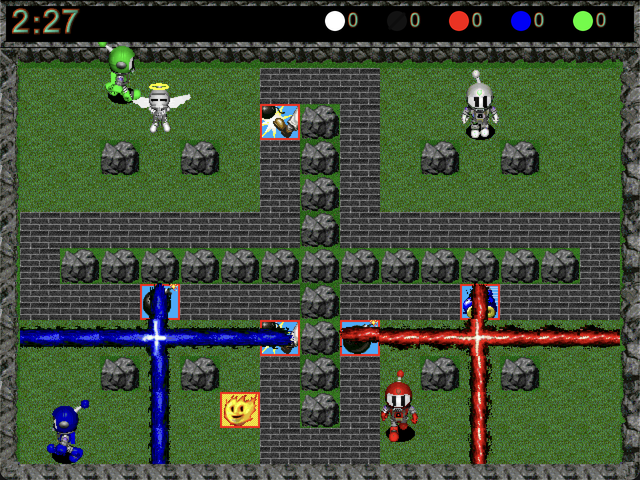
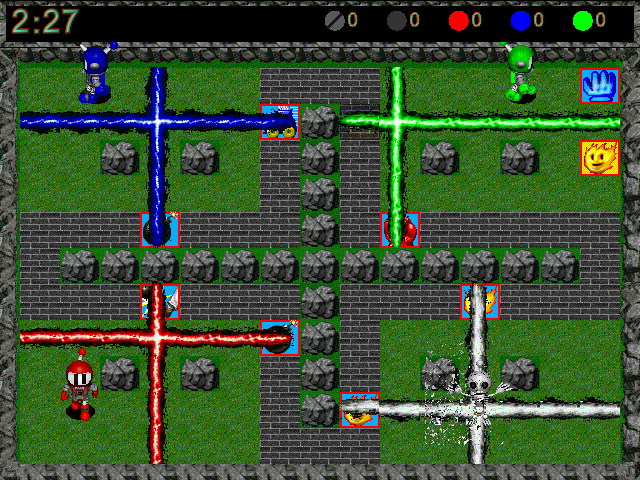
Update READMEs, CHANGELOG and screenshots for menu network play
Regenerated the three port screenshots from the current build, and added
two of the network screens: the host's lobby and the join field. The
lobby shot shows an example LAN address rather than this machine's.
Suite and check counts corrected; stale not-done items removed.

diff --git a/README.md b/README.md
@@ -23,16 +23,30 @@ rendering the same screen, live.
 | ![original field background](docs/screenshots/original-field0-greenacres.png) | ![port gameplay](docs/screenshots/port-gameplay-greenacres.png) |
 
 The gameplay shot on the right is real, not staged for the screenshot: five
-players, two simultaneous bomb explosions, and the brick/powerup/wall art
+players, four simultaneous bomb explosions, and the brick/powerup/wall art
 all drawn from the original's own sprite sheets.
+
+### Network play, from the menu
+
+| Hosting: the lobby tells you what to read out | Joining: pick a listed game, or type the address |
+|---|---|
+| ![host lobby](docs/screenshots/port-network-lobby.png) | ![join by address](docs/screenshots/port-network-join.png) |
+
+No command line needed. **Start Network Game** opens a lobby that shows the
+address others need; **Join Network Game** lists games heard on the LAN and
+takes a typed address for anything else. When a match is won everyone
+returns to the lobby, and the host starts the next one. Step-by-step, and
+what every on-screen message means: [docs/MULTIPLAYER.md](docs/MULTIPLAYER.md).
 
 ## What actually works
 
 - The game **starts, plays, and finishes** entirely on the original's own
   screens, art, sounds, and level data.
-- **Full network play** — WebSocket server/client, tested with real
-  multi-client sessions, deterministic simulation kept in sync by an FNV-1a
-  state hash every tick.
+- **Full network play, started from the menu** — host and join without a
+  terminal, play match after match from the lobby, rejoin a dropped game
+  into your own seat. WebSocket server/client, server-authoritative,
+  checked by an FNV-1a state hash every tick, and a test that fails if the
+  view ever reads a field the network does not carry.
 - **Every one of the 67 shipped multiplayer schemes** loads and plays, with
   team splits, player-start stacking, and per-scheme powerup overrides all
   read from the scheme file itself.
@@ -70,8 +84,8 @@ Nothing here is invented where the disc has an answer. The pipeline:
    integer-only — centipixels, no floats anywhere in game logic — so a
    client and server computing the same inputs get bit-identical results,
    checked every tick by the state hash.
-5. **`tools/verify.sh`** is the single gate: 37 headless test suites, ~6,100
-   assertions, a parse pass over all 74 `.gd` files whether referenced or
+5. **`tools/verify.sh`** is the single gate: 39 test suites, ~6,500
+   assertions, a parse pass over every `.gd` file whether referenced or
    not, a real WebSocket match between a server and two clients, and a
    mutation-testing pass (`tools/mutate.py`) that deliberately breaks the
    simulation 213 ways to confirm the test suite would actually catch each
@@ -91,70 +105,39 @@ Nothing here is invented where the disc has an answer. The pipeline:
   inflated a 30 KB file to 82 MB) and how each was caught, so a mistake
   doesn't get quietly re-made.
 
-## This session's work
+## This session's work (2026-10-02)
 
-Starting from a build that already played start-to-finish with ~6,100
-green checks, a live playtesting pass — followed by a deliberate
-port-vs-original ground-truth hunt — turned up defects the test suite
-could not see (the recurring lesson of this whole project — see
-`docs/BUGS.md`'s D21/D24/D27/D28, and now D29). All fixed and re-verified
-against the full suite:
+Network play went from "works, if you are a developer with a terminal" to
+something a player can use from the menu, and a run of defects that only
+showed up between two windows was fixed — each with a test that fails
+without the fix.
 
-**Found by playing it (D29):**
+- **The match never ended over the network.** The server logged "match
+  over" and then nothing — both windows sat on the final frame. A won match
+  now returns everyone to the lobby with the result shown, and the host
+  starts the next one.
+- **Losing the server quit everybody's game.** Now: back to the menu, with
+  the reason on screen. A join to an address where nothing answers no
+  longer hangs forever.
+- **A menu-only join could never work** — every menu-started game is named
+  "player", and the server refused the duplicate. Duplicates are numbered.
+- **Networked deaths still had no animation, and punched bombs flew
+  flat**, because two fields the renderer reads never crossed the wire.
+  Found by a new test that changes every player and bomb field on a server
+  and checks what arrives.
+- **The test editor crashed on every key in a network game.** It now edits
+  the host's real game; a guest is told why it cannot.
+- **A dropped player who rejoins gets their own seat, colour and score
+  back**, even from the AI that kept it warm.
+- **The flame's top arm sat ~3 px right of the centre** — the arm was
+  right; the centre piece's art carries its stem off-centre in its frame.
+  The vertical arms now line up on it: 2.75 px apart at the joint before,
+  0.15 px after, measured on screen.
+- **Flags typed before `--` are honoured with a warning** instead of being
+  silently ignored, and `verify.sh` refuses to run beside an open game
+  window instead of failing in a way that looks like a regression.
 
-- **Bombs sometimes not destroying bricks.** The flame-arm walk tested "is
-  there a powerup here" before "is this a brick" — and every powerup sits
-  hidden under a brick by design, so a flame hitting one destroyed the
-  invisible powerup and stopped without ever touching the brick. Swept all
-  67 schemes: **1,540 of 4,268 bomb-adjacent-to-brick cases (36%) failed
-  before the fix, 0 after.**
-- **Flame centre/north-arm misalignment** — a genuine sub-pixel quantization
-  limit (a 41px sprite centred in a 40px cell always leaves an exact 0.5px
-  remainder, provably, for any rounding rule), fixed by letting flame
-  pieces draw at their true fractional pixel position instead of snapping —
-  every other sprite kind stays pixel-locked.
-- **A powerup sitting on a bomb's own tile was never destroyed** — the
-  flame arms checked for one, the epicentre never did.
-- **Bombs could land on top of each other.** A punched or thrown bomb's
-  destination was clamped to field bounds only, with zero occupancy
-  check — fixed to stop at the furthest open cell, the way a kicked bomb
-  already did.
-- **AI movement was genuinely erratic** — the wander fallback re-rolled a
-  random direction every single tick (20/s) instead of persisting one.
-  Measured: 75% of ticks changed direction before the fix, 5% after,
-  matching the original's own 1-in-25 reconsider rule.
-- **A death animation could get cut off by the round ending underneath
-  it** — the round-transition timer (60 ticks) was shorter than the
-  longest death animation needs (up to 93 steps), so a cornered,
-  round-deciding kill could tear the simulation down mid-animation.
-
-**Found by hunting the port against the disassembled original, not by
-playing:**
-
-- **Four of twelve diseases were dead stubs** — `POOPS`, `SWAP_PLAYERS`,
-  `LEPROSY` and `INVISIBLE` were correctly classified into the disease
-  pool (so a player could catch them) but had no effect at all.
-  Implemented, cross-checked against an independent prior port where the
-  disc itself doesn't say (POOPS confirmed via a second port's own
-  `dEbola` — same disease, same mechanism).
-- **Campaign mode never scored a kill on a bot player** — VALUELST
-  resource 1300 ("250 for killing an AI") was declared and never read.
-- **The project's own "two-parser" safety check wasn't running.**
-  `tools/schemes.py --compare` — meant to catch the Python and GDScript
-  scheme parsers disagreeing — depended on a test-support script that
-  didn't exist, so it passed by checking nothing. Rebuilt; run for real:
-  all 67 schemes agree between the two parsers.
-
-Two live reports turned out to be correct behaviour, not bugs: an exposed
-powerup already died to flame (only the epicentre case was broken), and a
-"player instead of bomb" sighting during a punch/throw was the disc's own
-art — every character in this game is bomb-shaped, including a flying bomb.
-
-Every fix above was found and root-caused through actual repro — headless
-simulation sweeps across all 67 schemes, live-session playtesting, and
-pixel-level measurement of the rendered art — not by reasoning about the
-code in the abstract. See `docs/BUGS.md` D29 for the full defect history
-and `CHANGELOG.md` for the itemized diff.
+Itemized in `CHANGELOG.md`; the per-item reasoning in `docs/IMPROVEMENTS.md`.
 
 ## What's not done
 
@@ -162,11 +145,12 @@ and `CHANGELOG.md` for the itemized diff.
   replacement set (the only path to a build that could ever be
   redistributed) is designed for (`docs/ART.md`, `tools/artpack.py`) but
   not drawn.
-- Hold-to-carry bombs (the port grabs on a second press, the manual says
-  hold), three of the manual's six in-game keys (help, net-stats,
-  misc-info), death-animation sound mapping (nine sounds for 24 animations,
-  the mapping is unrecovered), decoration-only cornerhead animations, and
-  the netplay server-override key.
+- Not yet compared with the original: the between-rounds scoreboard and
+  win screen, and the level selection screen.
+- Network play has no room codes without a directory server you run
+  yourself (`directory/`); typing the host's address always works.
+- The thirteen powerups are live-verified in single-player for the gloves
+  and kick only; the rest pass their tests but await a human.
 - The AI's search is a simplification of the original's — a graded danger
   map with breadth-first search, rather than the original's cloning-walker
   frontier over a 100-node pool — a deliberate, documented approximation,
@@ -183,7 +167,7 @@ godot-project/     the Godot 4 project — the deliverable
   scripts/sim/      the simulation — integer-only, no engine deps
   scripts/net/      protocol, server, client
   scripts/render/   everything that draws
-  tests/            37 headless suites + the test harness
+  tests/            39 suites (33 headless, 6 rendered) + the harness
   test_data/        TESTALL.SCH — a scheme with every powerup guaranteed
   verify.sh         the one command that has to stay green
 tools/              the extraction toolkit — 21 Python scripts, one per
@@ -213,13 +197,14 @@ to a built-in grid — it still runs. Extract real game data first with
 
 ```bash
 cd godot-project
-./verify.sh                  # 37 suites, ~6100 checks
+./verify.sh                  # 39 suites, ~6500 checks
 EXPORT=1 ./verify.sh         # plus both export presets, .pck probed
 ../tools/mutate.py            # mutation testing
 ```
 
-Never run two Godot processes against this project at once — they share a
-LAN discovery port and will corrupt each other's test results.
+Close every game window before running it — they share the LAN discovery
+port, and `verify.sh` stops with a message naming the window's process if
+one is open.
 
 See `godot-project/README.md` for the full flag list and the T test
 editor's controls.

diff --git a/godot-project/README.md b/godot-project/README.md
@@ -29,26 +29,28 @@ arguments to the game rather than eating them itself:
 godot --path . -- --players 2 --bots 4
 ```
 
-Without the separator the flag is silently ignored and you get the default.
+Without the separator Godot keeps the flag for itself; the game still finds
+its own flags there, but warns you to move them after the `--`.
 Useful ones (see `scripts/app/main.gd`'s header comment for the full list):
 `--scheme PATH` to load a specific `.SCH` file, `--players N`, `--bots N`,
 `--scale N`, `--debug-grid`, `--auto-bomb N` (force a bomb on tick N, for
 scripted screenshots).
 
-Playing with other people — two on one keyboard, or two windows over the
-network on one machine — is `../docs/MULTIPLAYER.md`.
+Playing with other people — from the menu with no flags, two on one
+keyboard, or two windows over the network on one machine — is
+`../docs/MULTIPLAYER.md`.
 
 ## Testing
 
 ```bash
-./verify.sh                  # 37 suites, ~6100 checks, parses all 74 .gd files
+./verify.sh                  # 39 suites, ~6500 checks, parses every .gd file
 EXPORT=1 ./verify.sh          # plus both export presets, .pck probed
 ../tools/mutate.py            # mutation testing (run from here)
 ```
 
-Never run two Godot processes against this project at once — headless test
-runs and a live window both hit the same LAN discovery port and can corrupt
-each other's results. Kill stray processes first: `pgrep -fl Godot`.
+Close every game window first — a live window holds the LAN discovery port,
+and `verify.sh` stops with a message naming its process rather than failing
+in a way that looks like a regression. Find strays with `pgrep -fl Godot`.
 
 ## The T test editor
 
@@ -60,12 +62,20 @@ the keystroke before the game ever saw it.)
 - **Left click** a cell — cycles solid → brick → blank
 - **Right click** a cell — drops the selected powerup there, immediately
   visible (no brick to break first)
-- **[ / ]** — choose which of the 13 powerup types RMB places
+- **N** / **shift-N** (or **[ / ]**) — choose which of the 13 powerup types
+  RMB places and G gives
+- **G** — give the selected powerup to the player on the cursor
+- **X** — strip that player back to newborn: no powerups, no diseases
 - **B** — spawn a bomb at the cursor, using slot 0's own flame length/jelly
 - **K** — kill the player standing on the cursor cell (or slot 0)
 - **D** — give that player a random ordinary disease
 - **C** — cure that player
 - **R** — clear every brick and powerup on the field
+- **P** — pause the clock, **.** — one tick while paused (local games only)
+
+In a network game the editor works on the **host**, and edits the real game
+— every window sees the change. A guest's edits, and `P` anywhere online,
+are refused with a message on the panel.
 
 Pair it with `test_data/TESTALL.SCH` (`--scheme test_data/TESTALL.SCH`) — a
 hand-authored scheme with a sparse pillar grid (mostly destructible brick,

diff --git a/CHANGELOG.md b/CHANGELOG.md
@@ -1,5 +1,57 @@
 # Changelog
 
+## 2026-10-02 — network play from the menu, and the bugs between two windows
+
+**Network play**
+
+- **A won match returns everyone to the lobby** (it used to stop on the
+  final frame for good). The lobby says who won; the host presses Enter
+  for the next match. Dedicated servers do the same, with the first
+  player in the room as host.
+- **Hosting explains itself.** The host's lobby shows the LAN address,
+  how others join, and the port to forward for internet play.
+- **Joining needs no flags.** Join Network Game takes a typed address
+  (`192.168.1.20`, `host:port`) as well as a room code; the empty list says
+  so instead of naming `--join`.
+- **The LAN list works with two windows on one machine** — the second
+  window keeps trying for the discovery port and gets it once the first
+  starts hosting.
+- **Duplicate names are numbered** ("player 2") instead of refused, which
+  made every menu-only join fail.
+- **Losing the connection returns to the menu** with the reason on screen,
+  instead of quitting the game. A join nobody answers no longer hangs.
+- **Rejoining mid-match reclaims your seat**, colour and score — taking it
+  back from the AI if `lost_net_to_ai` put one there.
+- **Deaths animate and punched bombs arc on every client.** `death_tick`
+  and `fly_height` were never sent; a new suite,
+  `tests/test_snapshot_coverage.gd`, fails for any field the renderer
+  reads that a snapshot does not carry.
+- Protocol version 6 → 8, `Snapshot.LAYOUT` 3 → 4.
+
+**Fixes**
+
+- **The T editor crashed on every key in a network game.** It now edits
+  the host's server, and refuses on a guest with a message. `P` is refused
+  in network games (A2c: no manual pause online).
+- **The host's override key (`O`) crashed a lobby** with no round running.
+- **The flame's top arm sat ~3 px right of the centre** (A4). MFLAME's
+  centre frames carry their stem ~2.5 px left of the frame's middle; the
+  vertical arms now line up on it. 2.75 px at the joint before, 0.15 px
+  after.
+- **Flags given before the bare `--` are honoured with a warning** instead
+  of silently ignored.
+- The between-rounds wait holds for a death animation over the network,
+  as it already did locally.
+
+**Tooling**
+
+- `verify.sh` refuses to run while a game window holds UDP 47601, and
+  honours `PYTHON=` everywhere (two checks called `python3` directly).
+- A flaky three-client check counted living players; it counts seated
+  ones.
+
+`tools/verify.sh`: **VERIFY OK** — 39 suites, ~6,500 checks.
+
 ## 2026-09-18 — the last two known gaps
 
 The two items from the prior batch that were correctly left undone —

diff --git a/docs/STATUS.md b/docs/STATUS.md
@@ -1,13 +1,14 @@
 # STATUS — Atomic Bomberman (Godot 4 port)
 
-_Last updated: 2026-10-02 · branch `main` · 0 uncommitted files, 9 commits unpushed_
+_Last updated: 2026-10-02 · branch `main` · 0 uncommitted files, all pushed_
 
 ## Next action
 
-Play a real two-machine network game from the menu only (host: Start Network
-Game; guest: Join Network Game, type the address shown in the host's lobby),
-finish a match, play a second one, and walk the powerup list in
-`docs/POWERUP_REVIEW_PLAN.md` with the T editor (`docs/IMPROVEMENTS.md` A2).
+Finish the live QA pass from 2026-10-02 on two machines: joining from the
+menu was confirmed working by the user that day (two windows, one machine);
+still unseen by a human are the match-end return to the lobby, rejoining a
+dropped game, punched-bomb arcs and death animations on the guest, and the
+flame joint (A4). Then `docs/IMPROVEMENTS.md` A2, every powerup online.
 
 ## State
 
@@ -23,8 +24,8 @@ finish a match, play a second one, and walk the powerup list in
   carry it). Joiners and `P` (pause) are refused with a message.
 - `tests/test_snapshot_coverage.gd` fails for any field game_view.gd reads
   that no snapshot carries. It found `death_tick` and `fly_height` missing.
-- Nothing from 2026-10-02 has been seen by a human — every change is
-  verified by tests and by rendered screenshots only.
+- Of the 2026-10-02 work, only hosting and joining from the menu has been
+  seen by a human; the rest is verified by tests and rendered screenshots.
 
 ## In flight
 
@@ -50,7 +51,6 @@ it under `caffeinate -i`.
   `~/AtomicBomberman-sha-map-old-to-new.txt`. Checked 2026-10-02: the remote
   `main` matches the local one and no `win/` objects remain. The permission
   system blocked the agent from deleting them, so this one is for the user.
-- Push the local commits (`80a045c`..HEAD) when the live test above passes.
 - A3, the level selection screen, and B2, a held-powerups HUD strip — design
   decisions; check what the original shows first.
 - Room codes need a `--directory` server; no default one exists, so the menu
